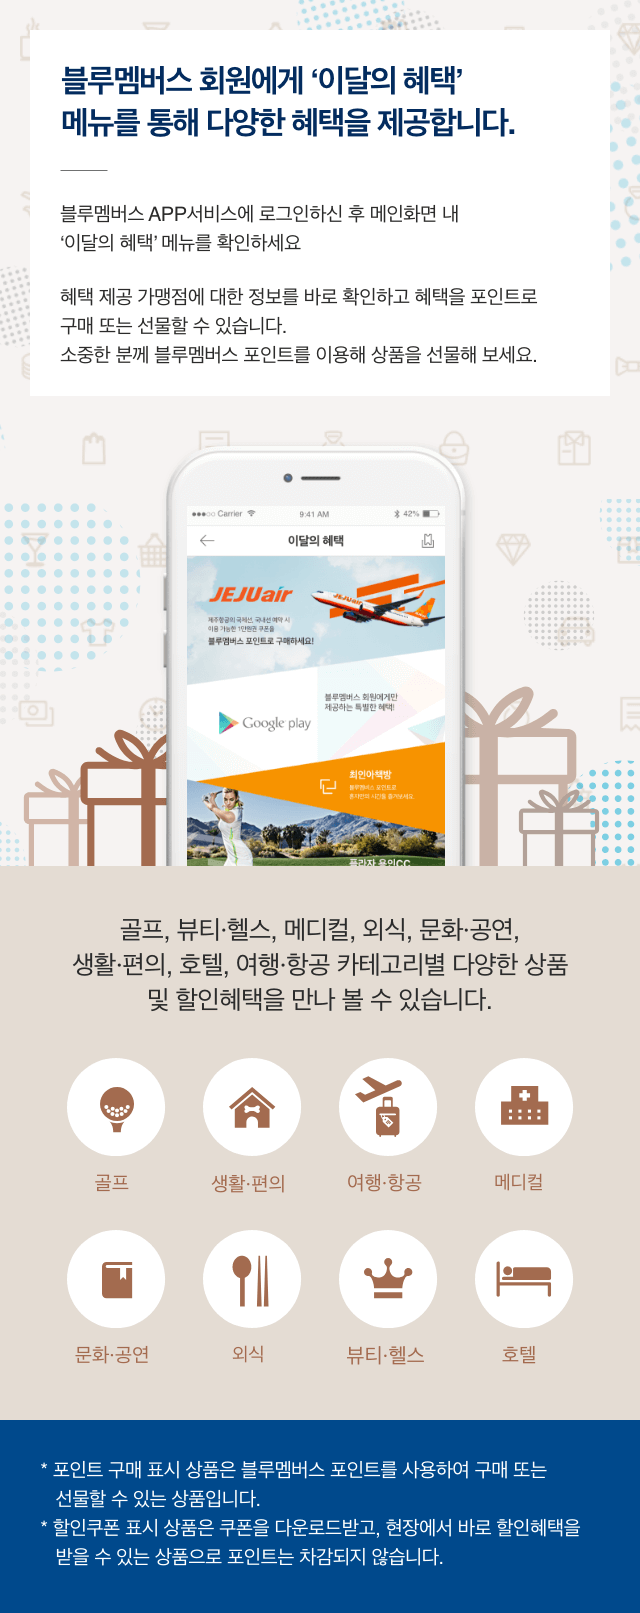
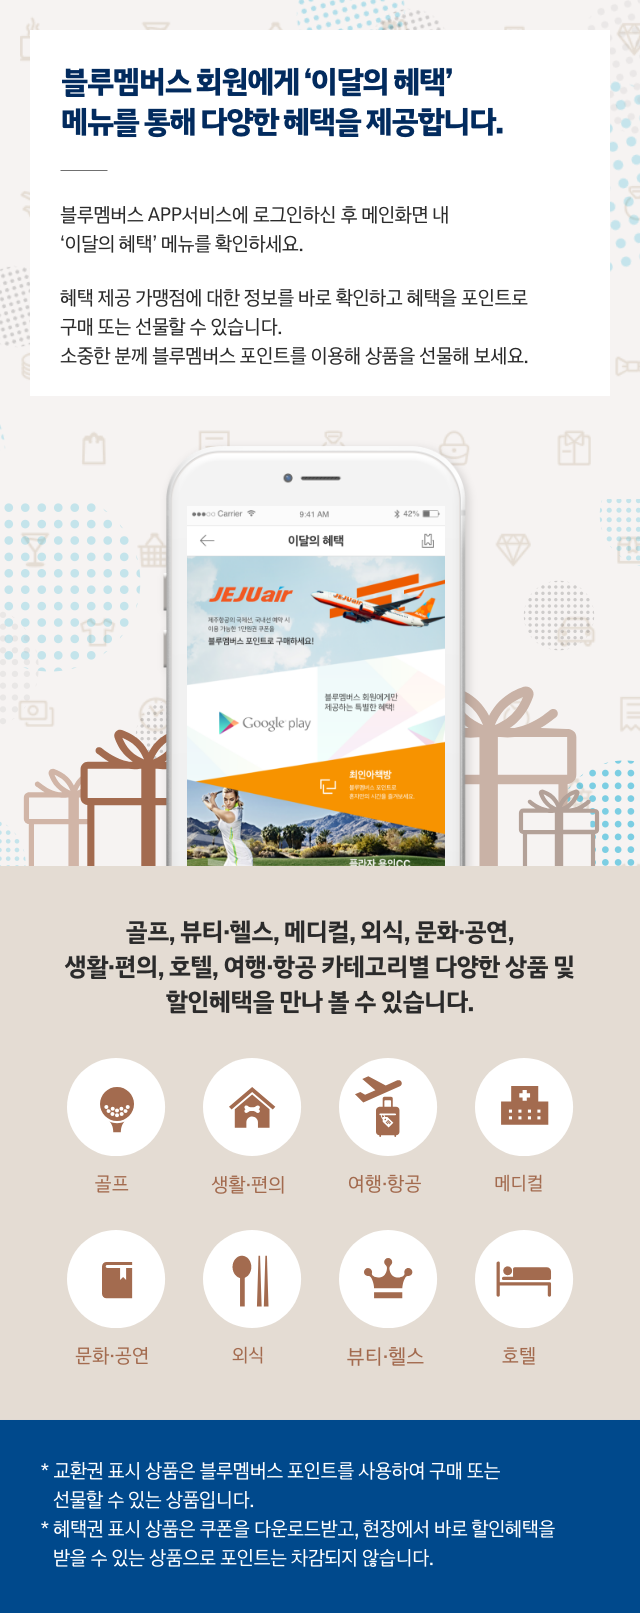
android 시스템 fontSize 문제

diff --git a/js/discount_details.js b/js/discount_details.js
@@ -120,7 +120,28 @@ var vm = new Vue({
                 that.productImg = res.goodsDtlImgs[0].goodsDtlImg;
                 that.brandName = res.brdNm;
                 that.productName = res.goodsNm;
-                that.productNotice = that.$utils_date( res.salEndDt , '년' , '월 ' , '일까지 구매가능' );
+                //expiDt
+
+                if( res.expiDt.length == 2 ) {
+                    if( res.expiDt.indexOf("일") >= 0 )
+                        that.productNotice = "구매일로부터 " + res.expiDt.substr(0,1) + "일까지 이용가능";
+                    else if( res.expiDt.indexOf("월") >= 0 )
+                        that.productNotice = "구매일로부터 " + res.expiDt.substr(0,1) + "개월까지 이용가능";
+                }
+                else if( res.expiDt.length == 3 ) {
+                    if( res.expiDt.indexOf("일") >= 0 )
+                        that.productNotice = "구매일로부터 " + res.expiDt.substr(0,2) + "일까지 이용가능";
+                    else if( res.expiDt.indexOf("월") >= 0 )
+                        that.productNotice = "구매일로부터 " + res.expiDt.substr(0,2) + "개월까지 이용가능";
+                }
+                else if( res.expiDt.length == 8 ) {
+                    that.productNotice = that.$utils_date( res.expiDt , '년' , '월 ' , '일까지 이용가능' );
+                }
+                else {
+                    that.productNotice = "이용기간 제한없음";
+                }
+
+                //that.productNotice = that.$utils_date( res.salEndDt , '년' , '월 ' , '일까지 이용가능' );
                 that.priceAfter = res.goodsSalPrice;
                 that.totalPrice = res.goodsSalPrice;
                 that.prstPsbYn = res.prstPsbYn;
@@ -206,10 +227,10 @@ var vm = new Vue({
         tap_buy: function() {
             var that = this;
 
-            var _message_1 ='선택한 할인쿠폰을 다운받으시겠습니까?';
+            var _message_1 ='선택한 혜택권을 다운받으시겠습니까?';
             var _message_2 = [
-                 '쿠폰 발급이 완료되었습니다.</br>'
-                ,'발급된 쿠폰은 보관함에서 확인할 수 있습니다.'
+                 '혜택권 다운로드가 완료되었습니다.</br>'
+                ,'발급된 혜택권은 보관함에서 확인할 수 있습니다.'
             ].join('');
 
             that.$utils_popupForm( that ,true , '' , _message_1 , false , function( res ){

diff --git a/js/main.js b/js/main.js
@@ -372,40 +372,57 @@ var vm = new Vue ({
             var id = parent.dataset.id;
             that.categoryIdx = id;
 
-            if( that.menuIdx == '0' ){
+            var historyParam = {};
 
-                var historyParam = {};
+            if( that.menuIdx == '0' ){
 
                 historyParam.custNo = that.key_custNo;
                 historyParam.uid = that.key_uid;
 
-                that.$utils_history_replaceState( historyParam );
+            }else{
+
+                historyParam.custNo = that.key_custNo;
+                historyParam.menuIdx = that.menuIdx;
+                historyParam.categoryIdx = '';
+                historyParam.uid = that.key_uid;
 
             }
 
+            that.$utils_history_replaceState( historyParam );
+
+
+
+            var param = new Array();
             if( that.menuIdx == 0 ){
 
-                var param = new Array();
+
                 param.custNo = that.key_custNo;
 
-                that.loading_type = true;
-
-                BM.MAIN( param ,function( res ){
-                    if( res.bnrList.length > 0 ){
-                        that.banrData( res );
-                    }
-                    that.productData(  true , res );
-
-                    that.loading_type = false;
-
-                },function( code , msg ){
-
-                    that.loading_type = false;
-                    that.$utils_popup( that , true , '' , msg );
-
-                });
-
+            }else{
+                param.ctgrGrpCd = that.menuIdx;
+                param.custNo = that.key_custNo;
+                param.ctgrCd = '';
+                that.key_categoryIdx = '';
+                that.categoryIdx = '';
             }
+
+            that.loading_type = true;
+
+            BM.MAIN( param ,function( res ){
+                if( res.bnrList.length > 0 ){
+                    that.banrData( res );
+                }
+                that.productData(  true , res );
+
+                that.loading_type = false;
+
+            },function( code , msg ){
+
+                that.loading_type = false;
+                that.$utils_popup( that , true , '' , msg );
+
+            });
+
 
         }
         //카테고리

diff --git a/main.html b/main.html
@@ -69,7 +69,7 @@
 
 
             <!-- 배너 -->
-            <div :style="menuIdx == 0 ? '' : 'display:none;' " class="main_swiper swiper-container">
+            <div v-if="mainSwiper.length > 1" :style="menuIdx == 0 ? '' : 'display:none;' " class="main_swiper swiper-container">
 
                 <div class="swiper-wrapper">
                     <div class="swiper-slide bg_cover"  v-for="item in mainSwiper" :style="{backgroundImage:'url('+ item.bnrImg +')'}">
@@ -80,6 +80,16 @@
                 <div class="main_pagination swiper-pagination"></div>
             </div>
 
+            <!-- 배너 -->
+            <div v-if="mainSwiper.length == 1" :style="menuIdx == 0 ? '' : 'display:none;' " class="swiper-container" style="    width: 100%;    height: 4.21875rem;">
+
+                <div class="swiper-wrapper">
+                    <div class="swiper-slide bg_cover" v-for="item in mainSwiper" :style="{backgroundImage:'url('+ item.bnrImg +')'}">
+                        <a :href="item.href" style="display: block; height: 100%;"></a>
+                    </div>
+                </div>
+
+            </div>
 
             <!-- 상품 -->
             <div class="product_list">
@@ -100,8 +110,8 @@
                                 </div>
 
                                 <!-- mark -->
-                                <!--<img v-if="item.goodsSalGbn == '1' " class="mark" src="images/icon_mark_type02.png" />-->
-                                <img v-if="item.goodsSalGbn == '1' " class="mark" src="images/tip_02.png" />
+                                <img v-if="item.goodsSalGbn == '1' " class="mark" src="images/icon_mark_type02.png" />
+                                <!--<img v-if="item.goodsSalGbn == '1' " class="mark" src="images/tip_02.png" />-->
                                 <!--<img v-if="item.goodsSalGbn == '2' " class="mark" src="images/icon_mark_type01.png" />-->
                                 <img v-if="item.goodsSalGbn == '2' " class="mark" src="images/tip_01.png" />
                             </a>

diff --git a/js/coupon_details.js b/js/coupon_details.js
@@ -114,8 +114,8 @@ var vm = new Vue ({
 
             }
 
-
         },function( code, msg ){
+            that.loading_type = false;
 
         });
 
@@ -385,21 +385,21 @@ var vm = new Vue ({
 
                 if( res.expiDt.length == 2 ) {
                     if( res.expiDt.indexOf("일") >= 0 )
-                        that.useDate = "구매일로부터 " + res.expiDt.substr(0,1) + "일";
+                        that.useDate = "구매일로부터 " + res.expiDt.substr(0,1) + "일까지 이용가능";
                     else if( res.expiDt.indexOf("월") >= 0 )
-                        that.useDate = "구매일로부터 " + res.expiDt.substr(0,1) + "개월";
+                        that.useDate = "구매일로부터 " + res.expiDt.substr(0,1) + "개월까지 이용가능";
                 }
                 else if( res.expiDt.length == 3 ) {
                     if( res.expiDt.indexOf("일") >= 0 )
-                        that.useDate = "구매일로부터 " + res.expiDt.substr(0,2) + "일";
+                        that.useDate = "구매일로부터 " + res.expiDt.substr(0,2) + "일까지 이용가능";
                     else if( res.expiDt.indexOf("월") >= 0 )
-                        that.useDate = "구매일로부터 " + res.expiDt.substr(0,2) + "개월";
+                        that.useDate = "구매일로부터 " + res.expiDt.substr(0,2) + "개월까지 이용가능";
                 }
                 else if( res.expiDt.length == 8 ) {
-                    that.useDate = "~ " + res.expiDt.substr(0,4) + "-" + res.expiDt.substr(4,2) + "-" + res.expiDt.substr(6,2);
+                    that.useDate = that.$utils_date( res.expiDt , '년' , '월 ' , '일까지 이용가능' );
                 }
                 else {
-                    that.useDate = "유효기간 없음";
+                    that.useDate = "이용기간 제한없음";
                 }
 
                 that.couponNumber = res.pinNo.trim();

diff --git a/js/details.js b/js/details.js
@@ -109,7 +109,28 @@ var vm = new Vue({
                that.productImg = res.goodsDtlImgs[0].goodsDtlImg;
                that.brandName = res.brdNm;
                that.productName = res.goodsNm;
-               that.productNotice = that.$utils_date( res.salEndDt , '년' , '월 ' , '일까지 구매가능' );
+               //expiDt
+
+               if( res.expiDt.length == 2 ) {
+                   if( res.expiDt.indexOf("일") >= 0 )
+                       that.productNotice = "구매일로부터 " + res.expiDt.substr(0,1) + "일까지 이용가능";
+                   else if( res.expiDt.indexOf("월") >= 0 )
+                       that.productNotice = "구매일로부터 " + res.expiDt.substr(0,1) + "개월까지 이용가능";
+               }
+               else if( res.expiDt.length == 3 ) {
+                   if( res.expiDt.indexOf("일") >= 0 )
+                       that.productNotice = "구매일로부터 " + res.expiDt.substr(0,2) + "일까지 이용가능";
+                   else if( res.expiDt.indexOf("월") >= 0 )
+                       that.productNotice = "구매일로부터 " + res.expiDt.substr(0,2) + "개월까지 이용가능";
+               }
+               else if( res.expiDt.length == 8 ) {
+                   that.productNotice = that.$utils_date( res.expiDt , '년' , '월 ' , '일까지 이용가능' );
+               }
+               else {
+                   that.productNotice = "이용기간 제한없음";
+               }
+
+               //that.productNotice = that.$utils_date( res.salEndDt , '년' , '월 ' , '일까지 구매가능' );
                that.priceAfter = res.goodsSalPrice;
                that.totalPrice = res.goodsSalPrice;
                that.prstPsbYn = res.prstPsbYn;

diff --git a/coupon_details.html b/coupon_details.html
@@ -77,9 +77,9 @@
 
 
                 <!-- 할인 쿠폰 사용 -->
-                <p v-if="!coupon_type && !couponDisable" v-on:click="discount_coupon_use" class="coupon_number flex_center">쿠폰 사용</p>
+                <p v-if="!coupon_type && !couponDisable" v-on:click="discount_coupon_use" class="coupon_number flex_center">쿠폰 사용시 버튼을 눌러주세요</p>
                 <p v-if="!coupon_type && !couponDisable" style="font-size: 0.34375rem;padding: 10px 0 0 0;">
-                    *쿠폰 사용시에만 사용완료를 눌러주세요.<br/>
+                    *버튼은 쿠폰 사용시에만 눌러주세요.<br/>
                     *사용완료 후에는 재사용이 불가하오니, 신중하게 사용해주세요.
                 </p>
 
@@ -108,8 +108,8 @@
 
 </div>
 
+<!--<script type="text/javascript" src="http://61.35.35.203:45270/resource/js/pointMall-api.js"></script>-->
 <script type="text/javascript" src="https://tami.12cmservice.co.kr/resource/js/pointMall-api.js"></script>
-<!--<script type="text/javascript" src="https://tami.12cmservice.co.kr/resource/js/pointMall-api.js"></script>-->
 <script type="text/javascript" src="https://developer.echoss.co.kr/sdk/echoss-lite-min.js"></script>
 <script type="text/javascript" src="dist/vue-barcode.js"></script>
 <script type="text/javascript" src="js/lib/utils.js"></script>

diff --git a/wallet.html b/wallet.html
@@ -28,7 +28,7 @@
 
         <!-- 배너 START -->
 
-        <div v-if="bannerView_YN" class="main_swiper swiper-container wallet_swiper top_banner bg_cover">
+        <div v-if="bannerView_YN && bannerlist.length > 1" class="main_swiper swiper-container wallet_swiper top_banner bg_cover">
 
             <div class="top_banner bg_cover swiper-wrapper" style="padding-top: initial;">
                 <div class="swiper-slide bg_cover"  v-for="item in bannerlist"
@@ -38,6 +38,19 @@
             </div>
 
             <div class="main_pagination swiper-pagination"></div>
+
+
+        </div>
+
+        <div v-if="bannerView_YN && bannerlist.length == 1" class=" wallet_swiper top_banner bg_cover">
+
+            <div class="top_banner bg_cover swiper-wrapper" style="padding-top: initial;">
+                <div class="swiper-slide bg_cover"  v-for="item in bannerlist"
+                     :style="{backgroundImage:'url('+ item.bnrImg +')'}">
+                    <a :href="item.href"></a>
+                </div>
+            </div>
+
         </div>
 
         <!-- 배너 END -->

diff --git a/company_info.html b/company_info.html
@@ -26,12 +26,12 @@
                 <p class="h3">사업자 정보</p>
                 <p class="content">
                     상호: (주)타미마케팅<br/>
-                    대표자:  성명 전민숙<br/>
+                    대표자 성명: 전민숙<br/>
                     주소:  서울 중구 다산로 90, 5층 (신당동 명신빌딩)<br/>
-                    통신판매업 신고번호 제 2008-서울중구-0223호<br/>
+                    통신판매업 신고번호: 제 2008-서울중구-0223호<br/>
                     사업자 등록번호 : 220-87-43318<br/>
                     고객센터: 080-040-6000 (평일 09:00 ~ 18:00)<br/>
-                    이메일 주소 : mkt.comm@tamimktg.co.kr<br/>
+                    이메일 주소 : mkt@tamimktg.co.kr<br/>
                 </p>
             </div>
             <footer>

diff --git a/brand/choiinabooks/wallet_submain_3.html b/brand/choiinabooks/wallet_submain_3.html
@@ -17,7 +17,7 @@
             <a class="btn_back flex_center" href="javascript:history.back();">
                 <img src="../../images/icon_back.png"/>
             </a>
-            <p class="title">최인아책방</p>
+            <p class="title">최인아책방 혼자의 서재</p>
         </div>
         <div class="section">
             <div class="info_box flex_column_center">
@@ -55,7 +55,7 @@
 
             <div class="btn">
                 <a class="btn_gift" :href="brand_gift_url">
-                    <p>선물하기 > </p>
+                    <p>포인트 구매/선물하기 > </p>
                 </a>
             </div>
         </div>

diff --git a/discount_details.html b/discount_details.html
@@ -65,7 +65,7 @@
                 <div class="btn_item flex_center">
                     <a class="flex_center" href="javascript:void(0)" @click="tap_buy">
                         <p class="flex_center">
-                            쿠폰 다운받기
+                            혜택권 다운받기
                         </p>
                     </a>
                 </div>

diff --git a/brand/emart/wallet_submain_img.html b/brand/emart/wallet_submain_img.html
@@ -36,7 +36,7 @@
                     <p>포인트사용하기 > </p>
                 </a>
                 <a  class="btn_gift" :href="brand_gift_url">
-                    <p>선물하기 > </p>
+                    <p>포인트 구매/선물하기 > </p>
                 </a>
             </div>
 

diff --git a/brand/googleplay/wallet_submain_2.html b/brand/googleplay/wallet_submain_2.html
@@ -58,7 +58,7 @@
 
             <div class="btn">
                 <a class="btn_gift" :href="brand_gift_url">
-                    <p>선물하기 > </p>
+                    <p>포인트 구매/선물하기 > </p>
                 </a>
             </div>
         </div>
